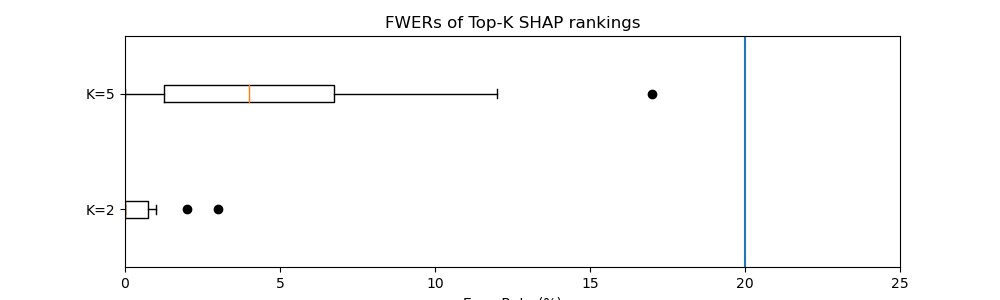
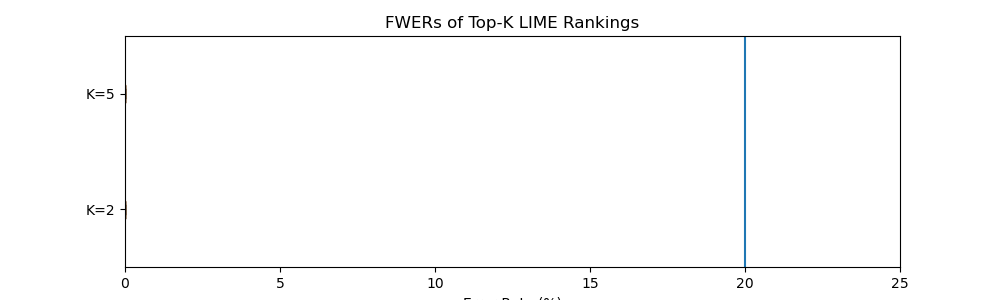
run lime

diff --git a/Experiments/Analysis/lime_calc_fwer.py b/Experiments/Analysis/lime_calc_fwer.py
@@ -10,24 +10,18 @@ sys.path.append(join(dir_path, "HelperFiles"))
 from helper import *
 
 K = int(sys.argv[1])
-fname = "shap_census_nn_K" + str(K) + "_10x"
+fname = "lime_breast_cancer_rf_K" + str(K) + "_10x"
 print("K={}.".format(K))
 with open(join(dir_path, "Experiments", "Results", fname), "rb") as fp:
-    shap_vals_all_pts = pickle.load(fp) 
+    top_K_all = pickle.load(fp) 
 
-N_pts = len(shap_vals_all_pts)
-N_runs = len(shap_vals_all_pts[0])
+N_pts = len(top_K_all)
+N_runs = len(top_K_all[0])
 fwers = []
-for shap_vals_all in shap_vals_all_pts:
-    top_K = []
-    for shap_vals in shap_vals_all:
-        est_top_K = get_ranking(shap_vals)[:K]
-        top_K.append(est_top_K)
-
-    #### Compute average #####
+for top_K in top_K_all:
     fwer = calc_fwer(top_K)
     fwers.append(np.round(fwer*100, 1))
     print("{}%".format(round(fwer*100,1))) # FWER
 
-with open(join(dir_path, "Experiments", "Results", "census_fwers_K_" + str(K)), "wb") as fp:
+with open(join(dir_path, "Experiments", "Results", "lime_fwers_K" + str(K)), "wb") as fp:
     pickle.dump(fwers, fp) 

diff --git a/Experiments/Analysis/shap_calc_fwer.py b/Experiments/Analysis/shap_calc_fwer.py
@@ -1,0 +1,32 @@
+import numpy as np
+import pickle
+import pathlib
+from os.path import join
+path_to_file = str(pathlib.Path().resolve())
+dir_path = join(path_to_file, "../../")
+
+import sys
+sys.path.append(join(dir_path, "HelperFiles"))
+from helper import *
+
+K = int(sys.argv[1])
+fname = "shap_census_nn_K" + str(K) + "_10x"
+print("K={}.".format(K))
+with open(join(dir_path, "Experiments", "Results", fname), "rb") as fp:
+    shap_vals_all_pts = pickle.load(fp) 
+
+N_pts = len(shap_vals_all_pts)
+N_runs = len(shap_vals_all_pts[0])
+fwers = []
+for shap_vals_all in shap_vals_all_pts:
+    top_K = []
+    for shap_vals in shap_vals_all:
+        est_top_K = get_ranking(shap_vals)[:K]
+        top_K.append(est_top_K)
+
+    fwer = calc_fwer(top_K)
+    fwers.append(np.round(fwer*100, 1))
+    print("{}%".format(round(fwer*100,1))) # FWER
+
+with open(join(dir_path, "Experiments", "Results", "shap_fwers_K" + str(K)), "wb") as fp:
+    pickle.dump(fwers, fp) 

diff --git a/Experiments/Code/lime_rf.py b/Experiments/Code/lime_rf.py
@@ -43,11 +43,12 @@ explainer = lime_tabular.LimeTabularExplainer(train,
 alpha = 0.20
 skip_thresh = 0.2
 n_trials = 500
+n_pts = 10
 alpha_adj = alpha/K/2
 top_K_all = []
 fwers = []
 x_idx = 0
-while len(fwers) < 20:
+while len(fwers) < n_pts:
     print(x_idx)
     xloc = test[x_idx]
     top_K = []
